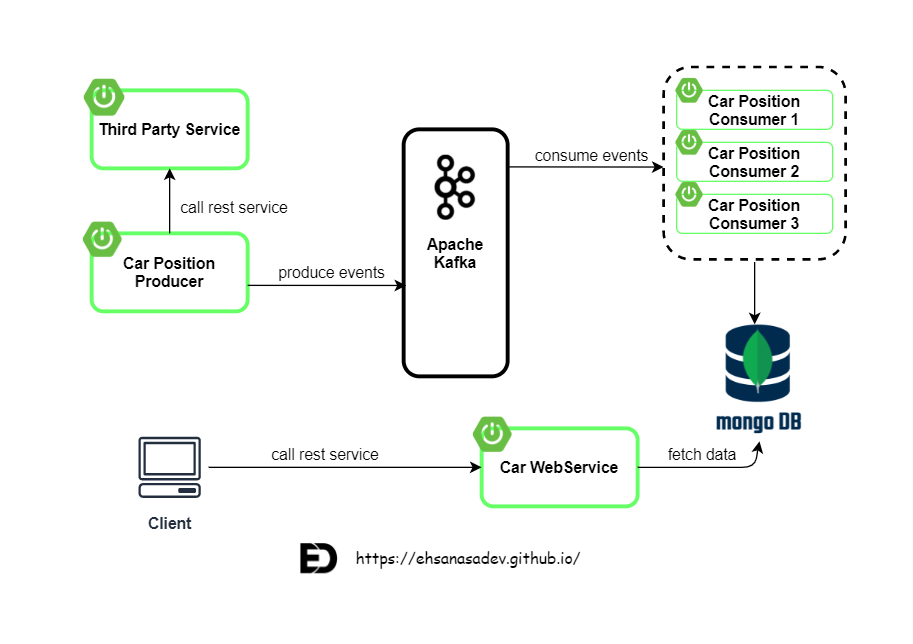
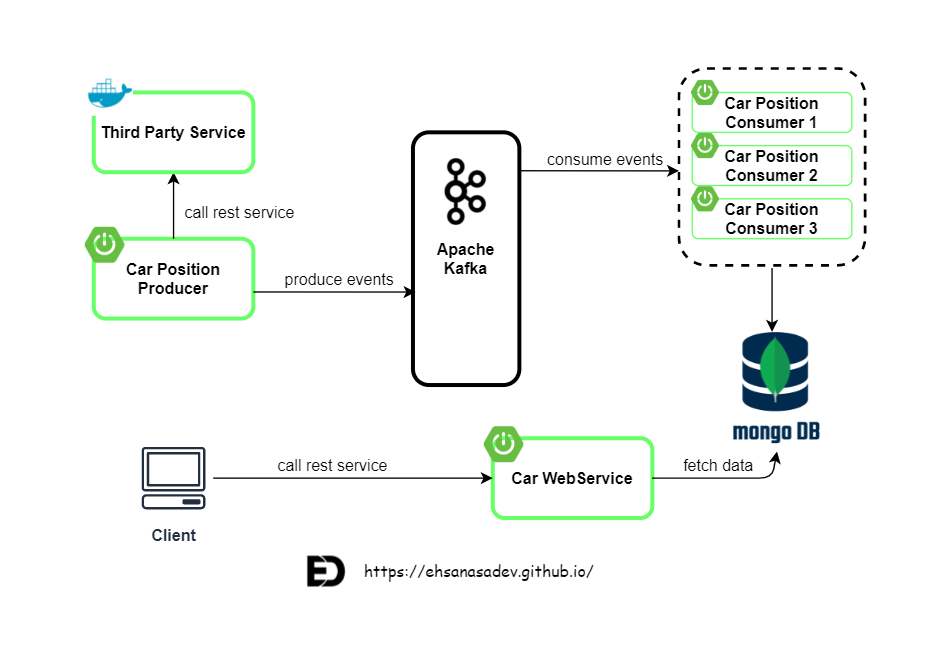
update post

diff --git a/_posts/2021-03-17-How_to_use_Spring_and_Kafka_to_build_a_project_based_on_microservices_architecture.md b/_posts/2021-03-17-How_to_use_Spring_and_Kafka_to_build_a_project_based_on_microservices_architecture.md
@@ -3,7 +3,7 @@ layout: post
 title: How to use Spring boot and Kafka to build a project based on microservices architecture
 comments: false
 categories: [ Spring boot ]
-tags: [Microservices, spring , Kafka]
+tags: [Microservices, Docker , Kafka]
 image: assets/images/spring-docker-kafka.png
 excerpt: This is a good example of how Spring boot works with Kafka as a message broker.
          In this project, I also use MongoDB and Docker. I show you how to write a test for producers and consumers
@@ -11,7 +11,7 @@ excerpt: This is a good example of how Spring boot works with Kafka as a message
 
 
 ---
-With Apache Kafka, you shouldn't worry about handling millions of messages quickly and Spring boot provide some useful library for working with Kafka and this is why this stack is very popular these days. I provided a production-ready project
+With Apache Kafka, you shouldn't worry about handling millions of messages quickly and Spring boot provides some useful library for working with Kafka and this is why this stack is very popular these days. I provided a production-ready project
 base on microservice architecture on
 [GitHub](https://github.com/EhsanAsaDev/car-Location-microservice/)
 and in this post, I want to show you how we can use some features in spring boot to using Kafka as a message broker and also
@@ -34,9 +34,9 @@ The implementation consists of Three microservices implemented in Java using Spr
 The purpose of this microservice is to fetch car locations from the third party service then produce an event for each car
 and finally, send it to Kafka.
 
-For fetching car locations use API, which is provided in the form of the public Docker image.
-you can use this image car2godeveloper/api-for-coding-challenge docker.
-when you pull and run it for example on port 3000 you can find API swagger specification is available under this URL:
+For fetching car locations through an API, which is provided in the form of the public Docker image.
+you can use this docker image: car2godeveloper/api-for-coding-challenge 
+when you pull and run it for example on port 3000 you can find API swagger specification is available through this URL:
 http://localhost:3000/documentation/
 
 For streaming, we should config a scheduler for fetching data periodically. I implement it simply in 
@@ -56,7 +56,7 @@ public Vehicle[] fetchCarData(){
 }
 ``` 
 
-After fetching data we should send it as an event to Kafka. spring-kafka has a useful and simple class for that. you just add this dependency in your pom.
+After fetching data we should send it as an event to Kafka. spring-kafka has a useful and simple class for that. you just need to add this dependency in your pom.
 
 ```xml
         <dependency>
@@ -73,7 +73,7 @@ public ListenableFuture<SendResult<String,Vehicle>> sendVehicleEvents(Vehicle ve
 
     String key = vehicle.getVin();
 
-    ProducerRecord<String,Vehicle> producerRecord = buildProducerRecord(key, vehicle, topic);
+    ProducerRecord<String,Vehicle> producerRecord = buildProducerRecord(key, vehicle, "vehicle-position-events");
 
     ListenableFuture<SendResult<String,Vehicle>> listenableFuture =  kafkaTemplate.send(producerRecord);
     listenableFuture.addCallback(new VehicleEventListenableFutureCallback(key,vehicle));
@@ -82,7 +82,7 @@ public ListenableFuture<SendResult<String,Vehicle>> sendVehicleEvents(Vehicle ve
 }
 ``` 
 
-The main point here is using Vin as the key of messages. As you know Kafka only guarantees message ordering within a partition so, in this way, we can be sure all data belong to the one car send to a specific partition.
+The main point here is using Vin as the key of messages. As you know Kafka only guarantees message ordering within a partition so, in this way, we can be sure all data belonging to a specific car will be sent to a specific partition.
 
 
 #### Car Position Consumer
@@ -129,7 +129,7 @@ public ResponseEntity<Vehicle> getVehicleByVin(@RequestParam("vin") String vin) 
 }
 ``` 
 
-finally, running the project via the home page (http://localhost:8083/) you can access with swagger to test APIs.
+finally, running the project via the home page (http://localhost:8083/) you can access it with swagger to test APIs.
 
 
 ### Testing an Apache Kafka Integration within a Spring Boot Application and JUnit 5
